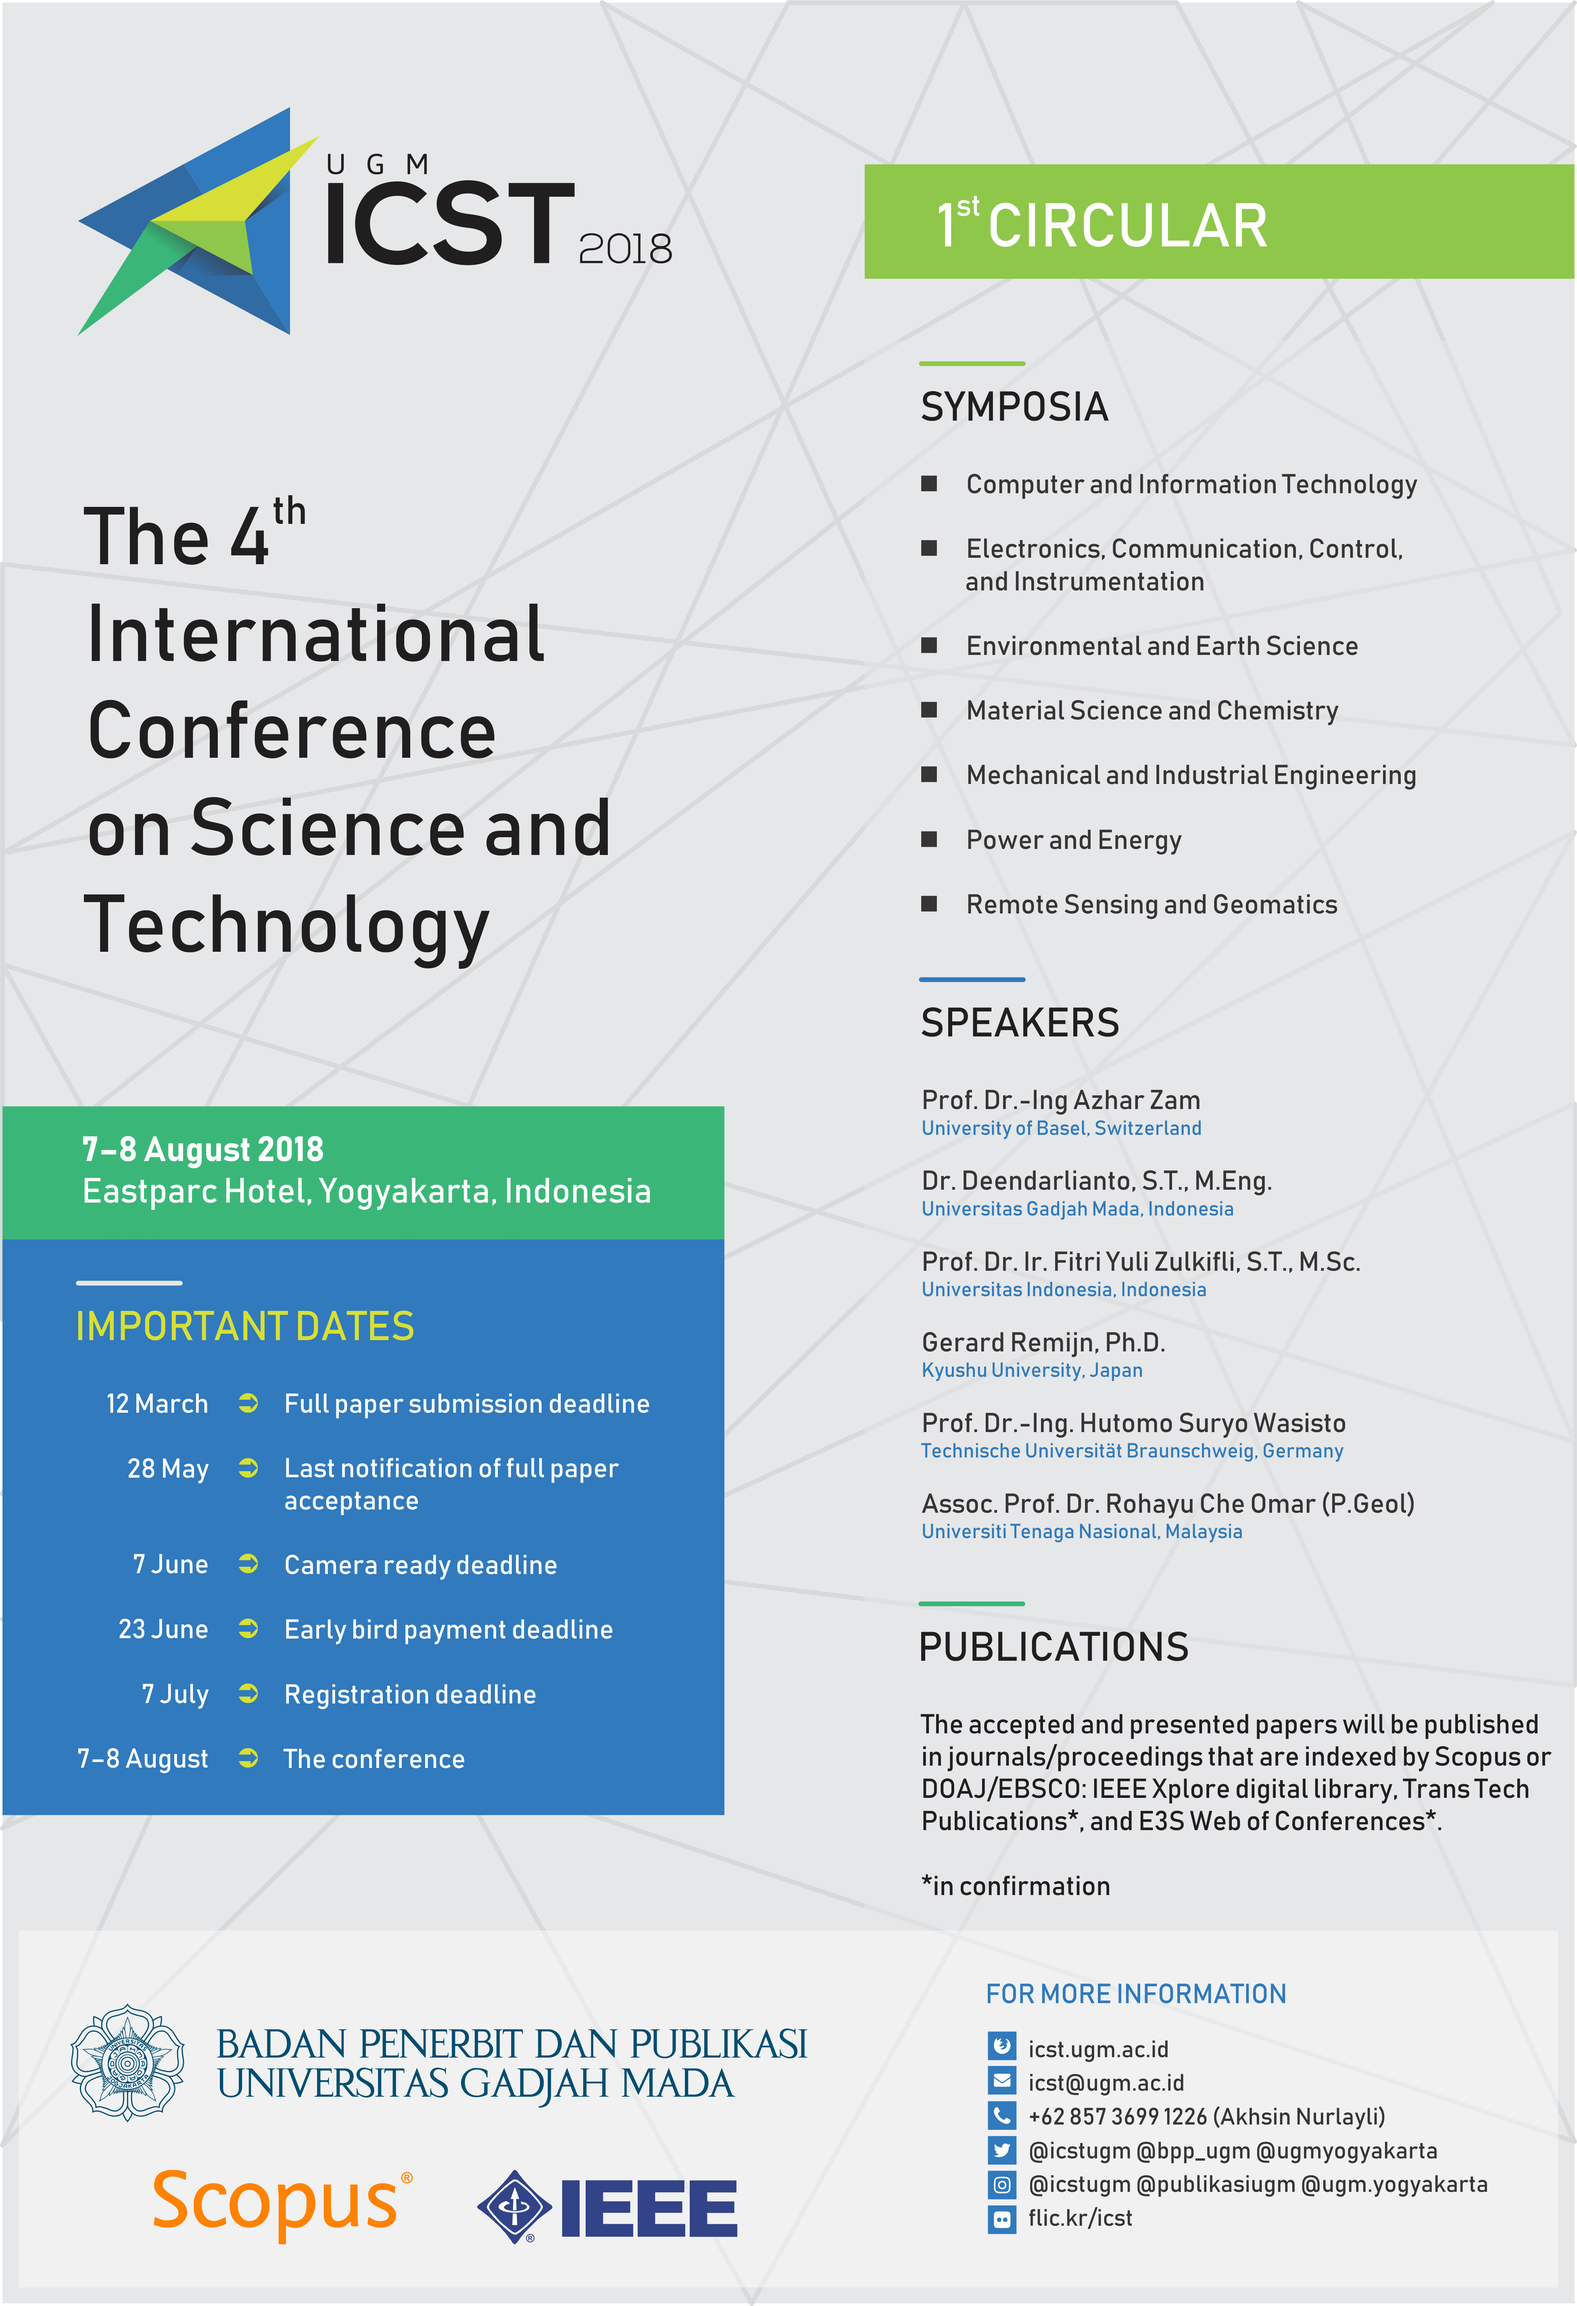
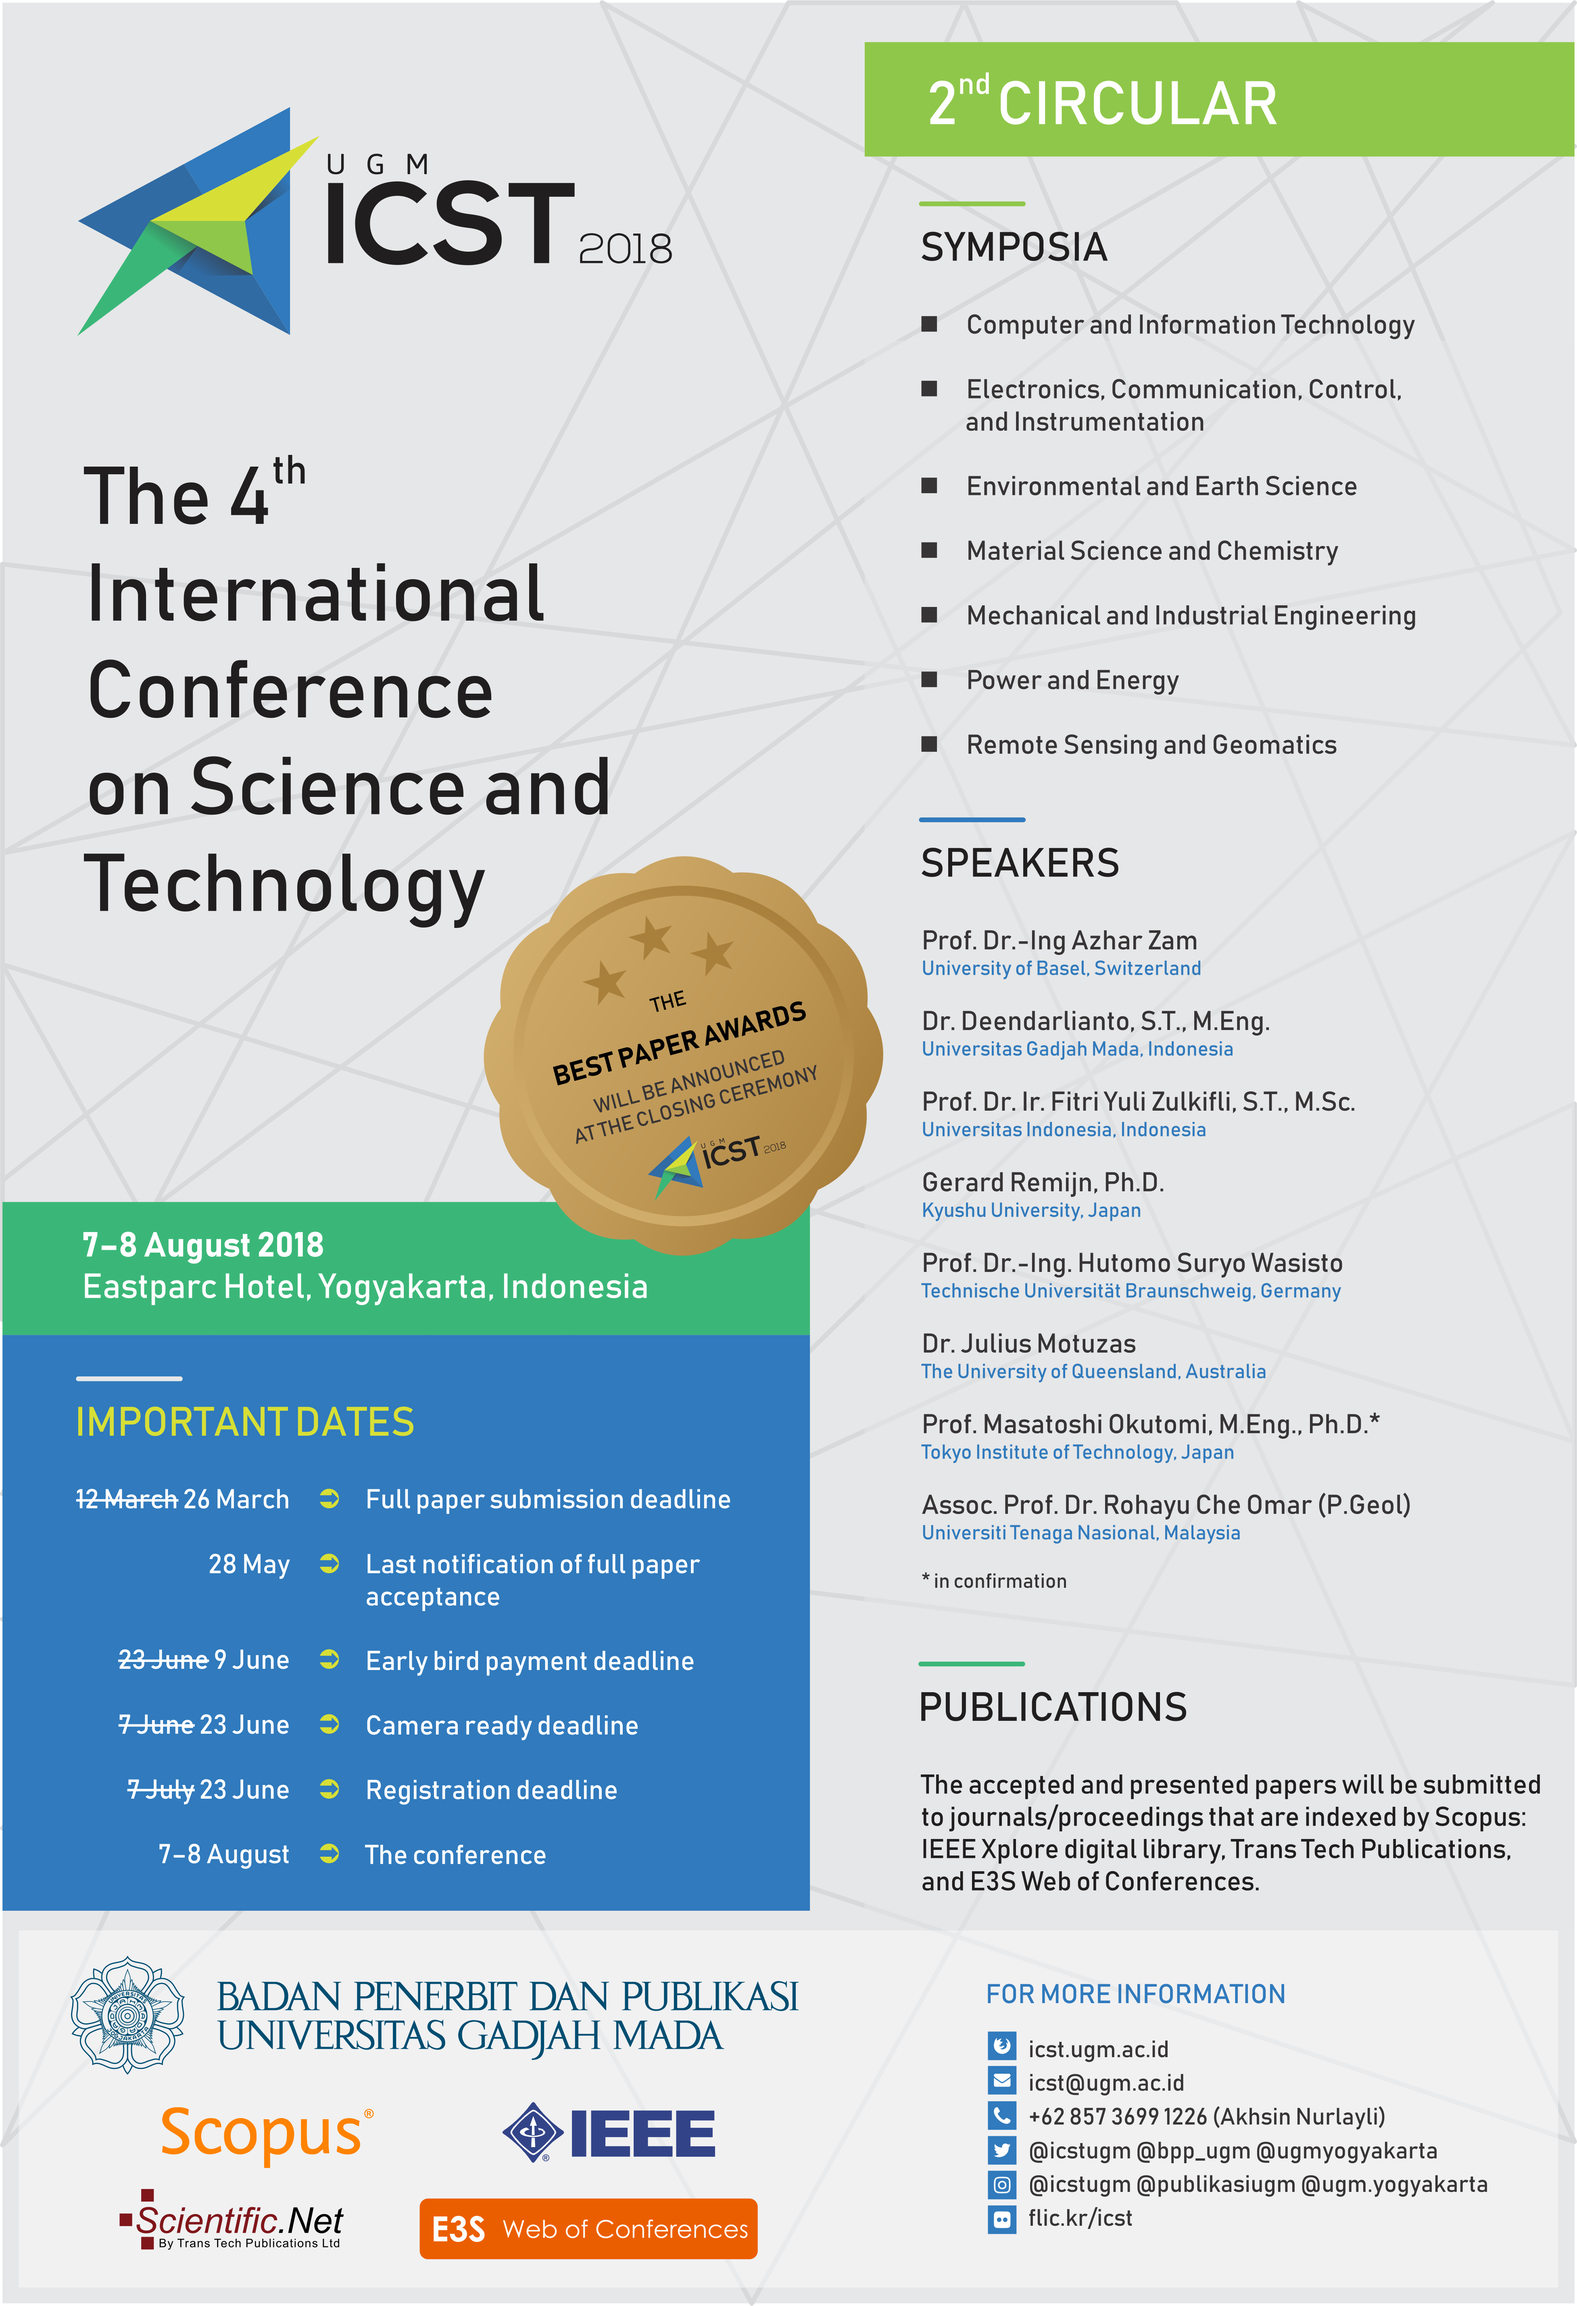
update the deadline
update the deadline

Changed region(s): [[0.0, 0.1868, 0.5616, 0.9962], [0.5304, 0.0, 0.9985, 0.8405]]

diff --git a/index.html b/index.html
@@ -154,15 +154,15 @@
     </nav>  
 
     <!-- NOTICE -->
-    <!--<section class="text-center" style="background-color: #FEE545">
+    <section class="text-center" style="background-color: #FEE545">
       <div class="container py-4">
         <div class="row">
           <div class="col-12">
-            <h5 style="margin-bottom: 0; line-height: 1;"><b>The registration starts on 15 February 2018</b></h5>
+            <h5 style="margin-bottom: 0; line-height: 1;"><b>The full paper submission deadline has been extended until <strong>26 March 2018</strong></b></h5>
           </div>
         </div>
       </div>
-    </section>-->
+    </section>
     
     <!-- JUMBOTRON -->
     <div class="jumbotron" style="background: url('images/jumbotron/jumbotron.svg') center center fixed no-repeat; background-size: cover; padding: 2.5rem 1rem 0 1rem">
@@ -208,68 +208,68 @@
                   <hr class="mx-auto my-3" style="border-color: #DFDFDF; width: 70%;">
                   <div class="container-fluid" style="padding: 0;">
                     <div class="row" style="font-weight: 300">
-                      <div class="col-3 text-right" style="padding-right: 0;">
-                        12 March
+                      <div class="col-4 text-right" style="padding-right: 0;">
+                        <strike>12 March</strike> 26 March
                       </div>
                       <div class="col-1 text-center" style="padding-left: 0; padding-right: 0">
                         <i class="fa fa-arrow-circle-right fa-fw" aria-hidden="true"></i>
                       </div>
-                      <div class="col-8" style="padding-left: 0;">
+                      <div class="col-7" style="padding-left: 0;">
                         Full paper submission deadline
                       </div>
                     </div>
                     <div class="row" style="font-weight: 300">
-                      <div class="col-3 text-right" style="padding-right: 0;">
+                      <div class="col-4 text-right" style="padding-right: 0;">
                         28 May
                       </div>
                       <div class="col-1 text-center" style="padding-left: 0; padding-right: 0">
                         <i class="fa fa-arrow-circle-right fa-fw" aria-hidden="true"></i>
                       </div>
-                      <div class="col-8" style="padding-left: 0;">
+                      <div class="col-7" style="padding-left: 0;">
                         Last notification of full paper acceptance
                       </div>
                     </div>
                     <div class="row" style="font-weight: 300">
-                      <div class="col-3 text-right" style="padding-right: 0;">
+                      <div class="col-4 text-right" style="padding-right: 0;">
                         9 June
                       </div>
                       <div class="col-1 text-center" style="padding-left: 0; padding-right: 0">
                         <i class="fa fa-arrow-circle-right fa-fw" aria-hidden="true"></i>
                       </div>
-                      <div class="col-8" style="padding-left: 0;">
+                      <div class="col-7" style="padding-left: 0;">
                         Early bird payment deadline
                       </div>
                     </div>
                     <div class="row" style="font-weight: 300">
-                      <div class="col-3 text-right" style="padding-right: 0;">
+                      <div class="col-4 text-right" style="padding-right: 0;">
                         23 June
                       </div>
                       <div class="col-1 text-center" style="padding-left: 0; padding-right: 0">
                         <i class="fa fa-arrow-circle-right fa-fw" aria-hidden="true"></i>
                       </div>
-                      <div class="col-8" style="padding-left: 0;">
+                      <div class="col-7" style="padding-left: 0;">
                         Camera ready deadline
                       </div>
                     </div>
                     <div class="row" style="font-weight: 300">
-                      <div class="col-3 text-right" style="padding-right: 0;">
+                      <div class="col-4 text-right" style="padding-right: 0;">
                         23 June
                       </div>
                       <div class="col-1 text-center" style="padding-left: 0; padding-right: 0">
                         <i class="fa fa-arrow-circle-right fa-fw" aria-hidden="true"></i>
                       </div>
-                      <div class="col-8" style="padding-left: 0;">
+                      <div class="col-7" style="padding-left: 0;">
                         Registration deadline
                       </div>
                     </div>
                     <div class="row" style="font-weight: 300">
-                      <div class="col-3 text-right" style="padding-right: 0;">
+                      <div class="col-4 text-right" style="padding-right: 0;">
                         7&ndash;8 August
                       </div>
                       <div class="col-1 text-center" style="padding-left: 0; padding-right: 0">
                         <i class="fa fa-arrow-circle-right fa-fw" aria-hidden="true"></i>
                       </div>
-                      <div class="col-8" style="padding-left: 0;">
+                      <div class="col-7" style="padding-left: 0;">
                         The conference
                       </div>
                     </div>
